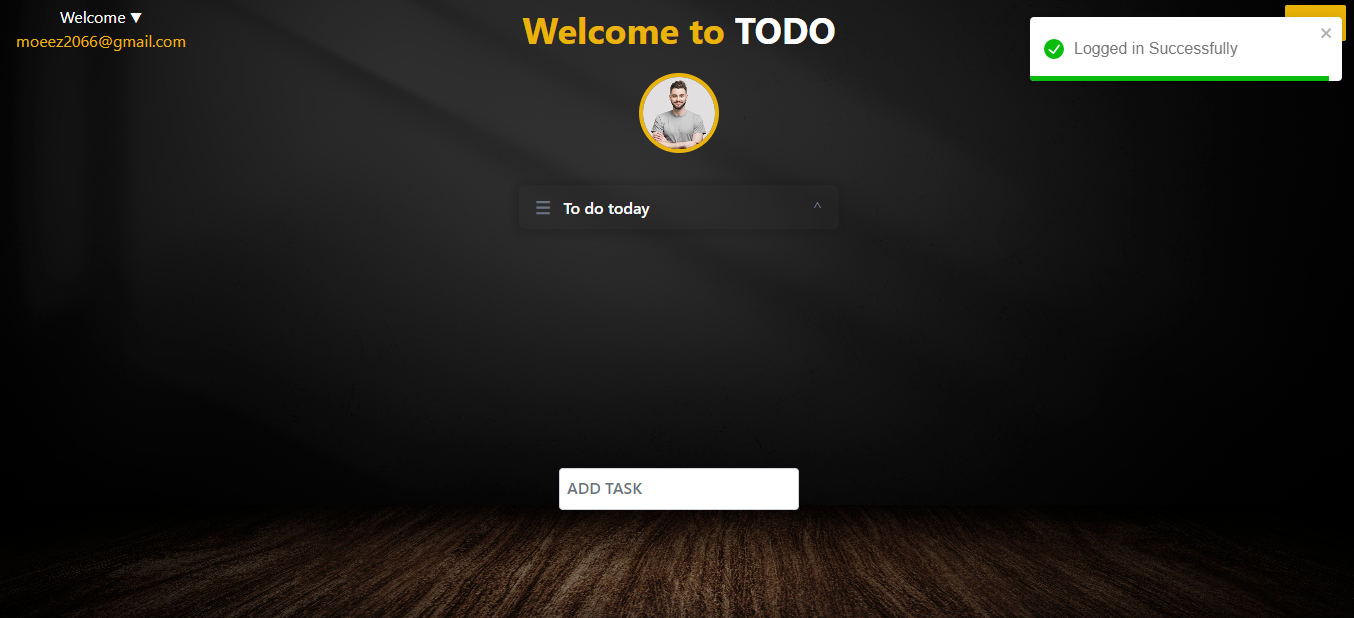
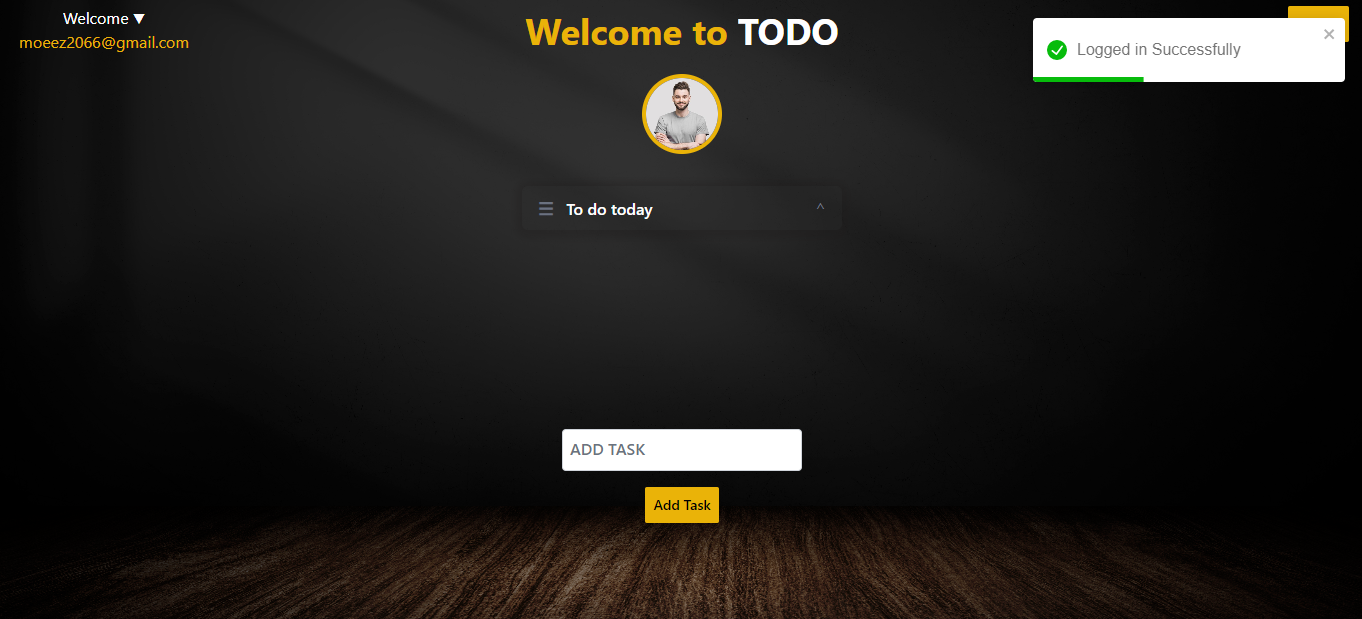
commited

diff --git a/frontend/src/Components/AddTask.js b/frontend/src/Components/AddTask.js
@@ -22,44 +22,47 @@ export default function AddTask() {
   const handleInputBlur = () => {
     setIsInputSelected(inputValue !== "");
   };
-
   const handleKeyPress = (e) => {
     if (e.key === "Enter") {
       e.preventDefault();
-      if (inputValue.trim() !== "") {
-        const task = {
-          task: inputValue,
-          completed: false,
-          creationTime: new Date().toISOString(),
-          completionTime: null,
-        };
-
-        updateUser({
-          variables: {
-            _id: JSON.parse(localStorage.getItem("userData")).email,
-            tasks: [task],
-          },
-          refetchQueries: [
-            {
-              query: GETALLTASKS,
-              variables: {
-                id: JSON.parse(localStorage.getItem("userData")).email,
-              },
+      handleAddTask();
+    }
+  };
+  const handleAddTask = () => {
+    if (inputValue.trim() !== "") {
+      const task = {
+        task: inputValue,
+        completed: false,
+        creationTime: new Date().toISOString(),
+        completionTime: null,
+      };
+  
+      updateUser({
+        variables: {
+          _id: JSON.parse(localStorage.getItem("userData")).email,
+          tasks: [task],
+        },
+        refetchQueries: [
+          {
+            query: GETALLTASKS,
+            variables: {
+              id: JSON.parse(localStorage.getItem("userData")).email,
             },
-          ],
+          },
+        ],
+      })
+        .then((response) => {
+          toast.success("Task Added ", {
+            autoClose: 800,
+          });
         })
-          .then((response) => {
-            toast.success("Task Added ", {
-              autoClose: 800,
-            });
-          })
-          .catch((error) => {});
-
-        setInputValue("");
-      }
+        .catch((error) => {});
+  
+      setInputValue("");
     }
   };
 
+  
   return (
     <section className="flex w-full absolute bottom-28 items-center justify-center">
       <div className="relative mt-4 w-60">
@@ -82,6 +85,7 @@ export default function AddTask() {
           onBlur={handleInputBlur}
           onKeyDown={handleKeyPress}
         />
+        <button onClick={handleAddTask} className="bg-yellow-500 p-2 mt-4 -mb-3 block m-auto text-black text-sm rounded-sm font-semibold">Add Task</button>
       </div>
     </section>
   );
